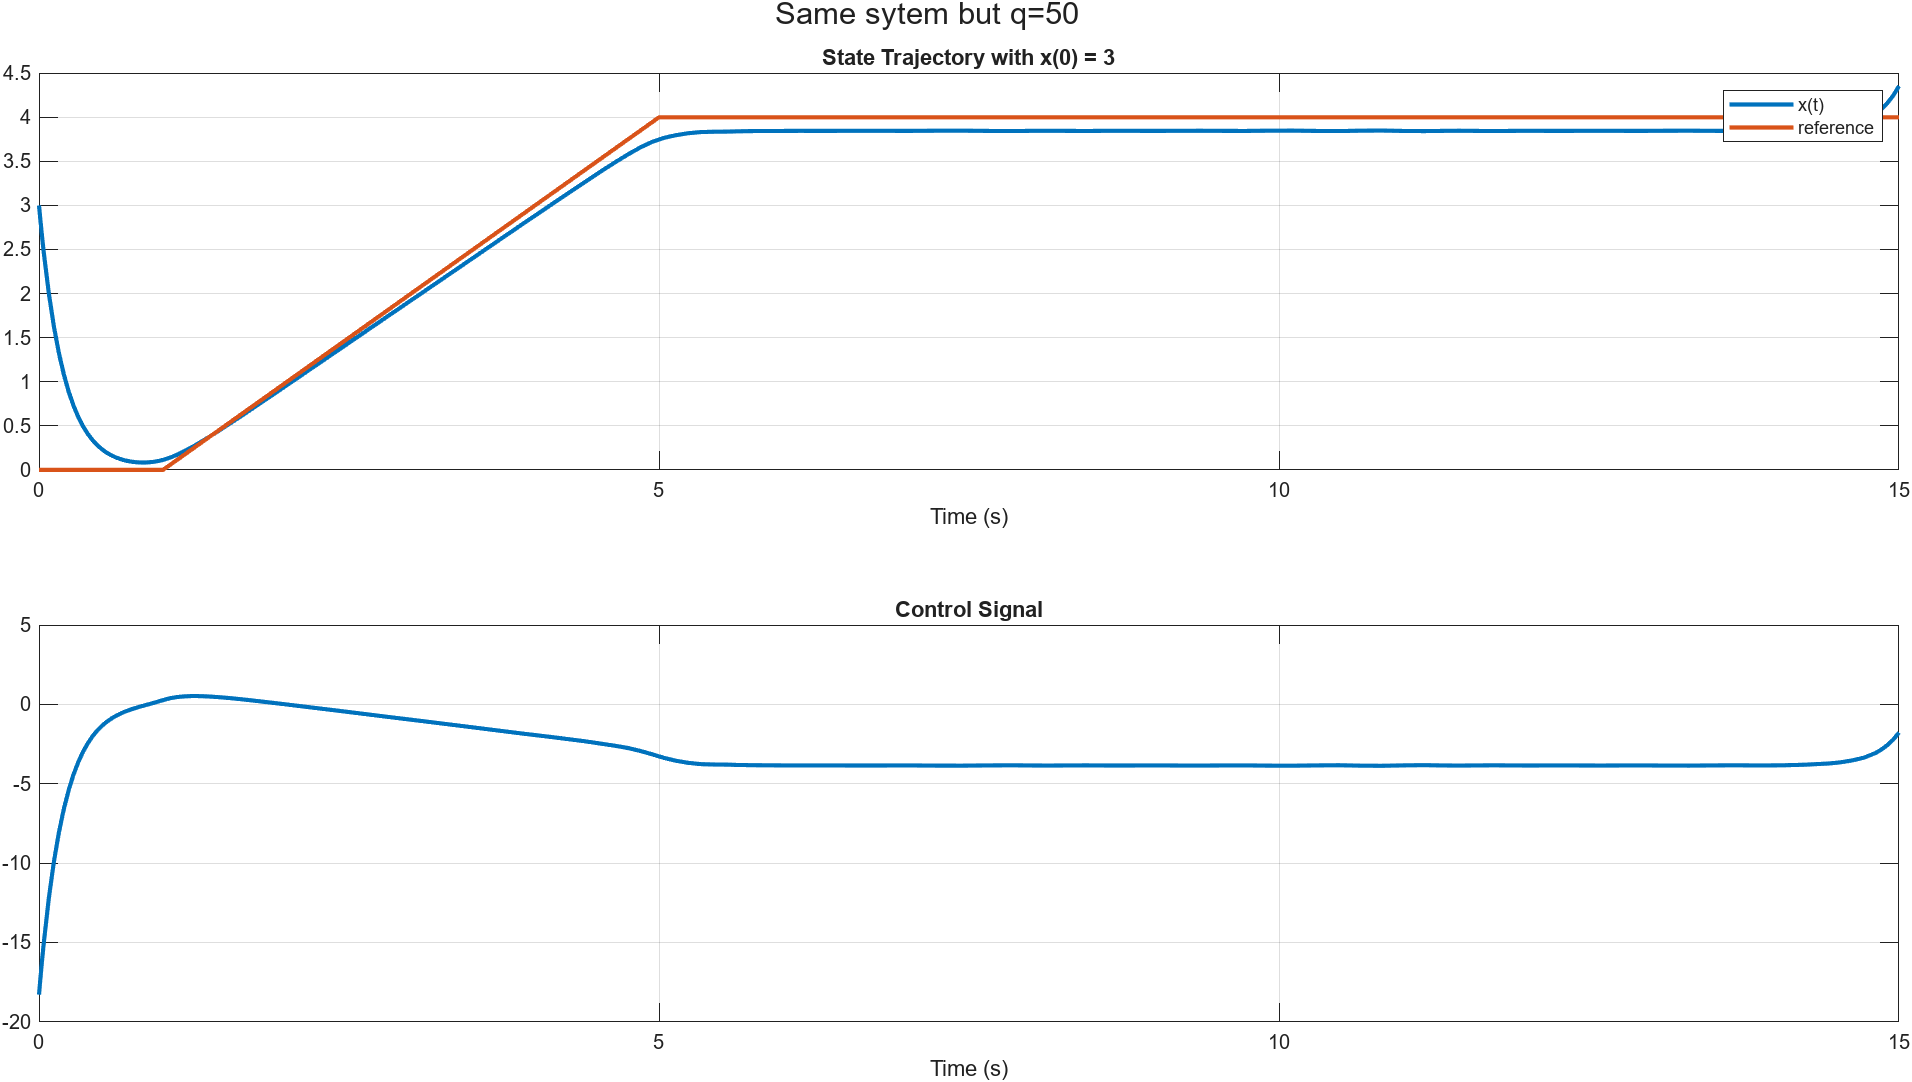
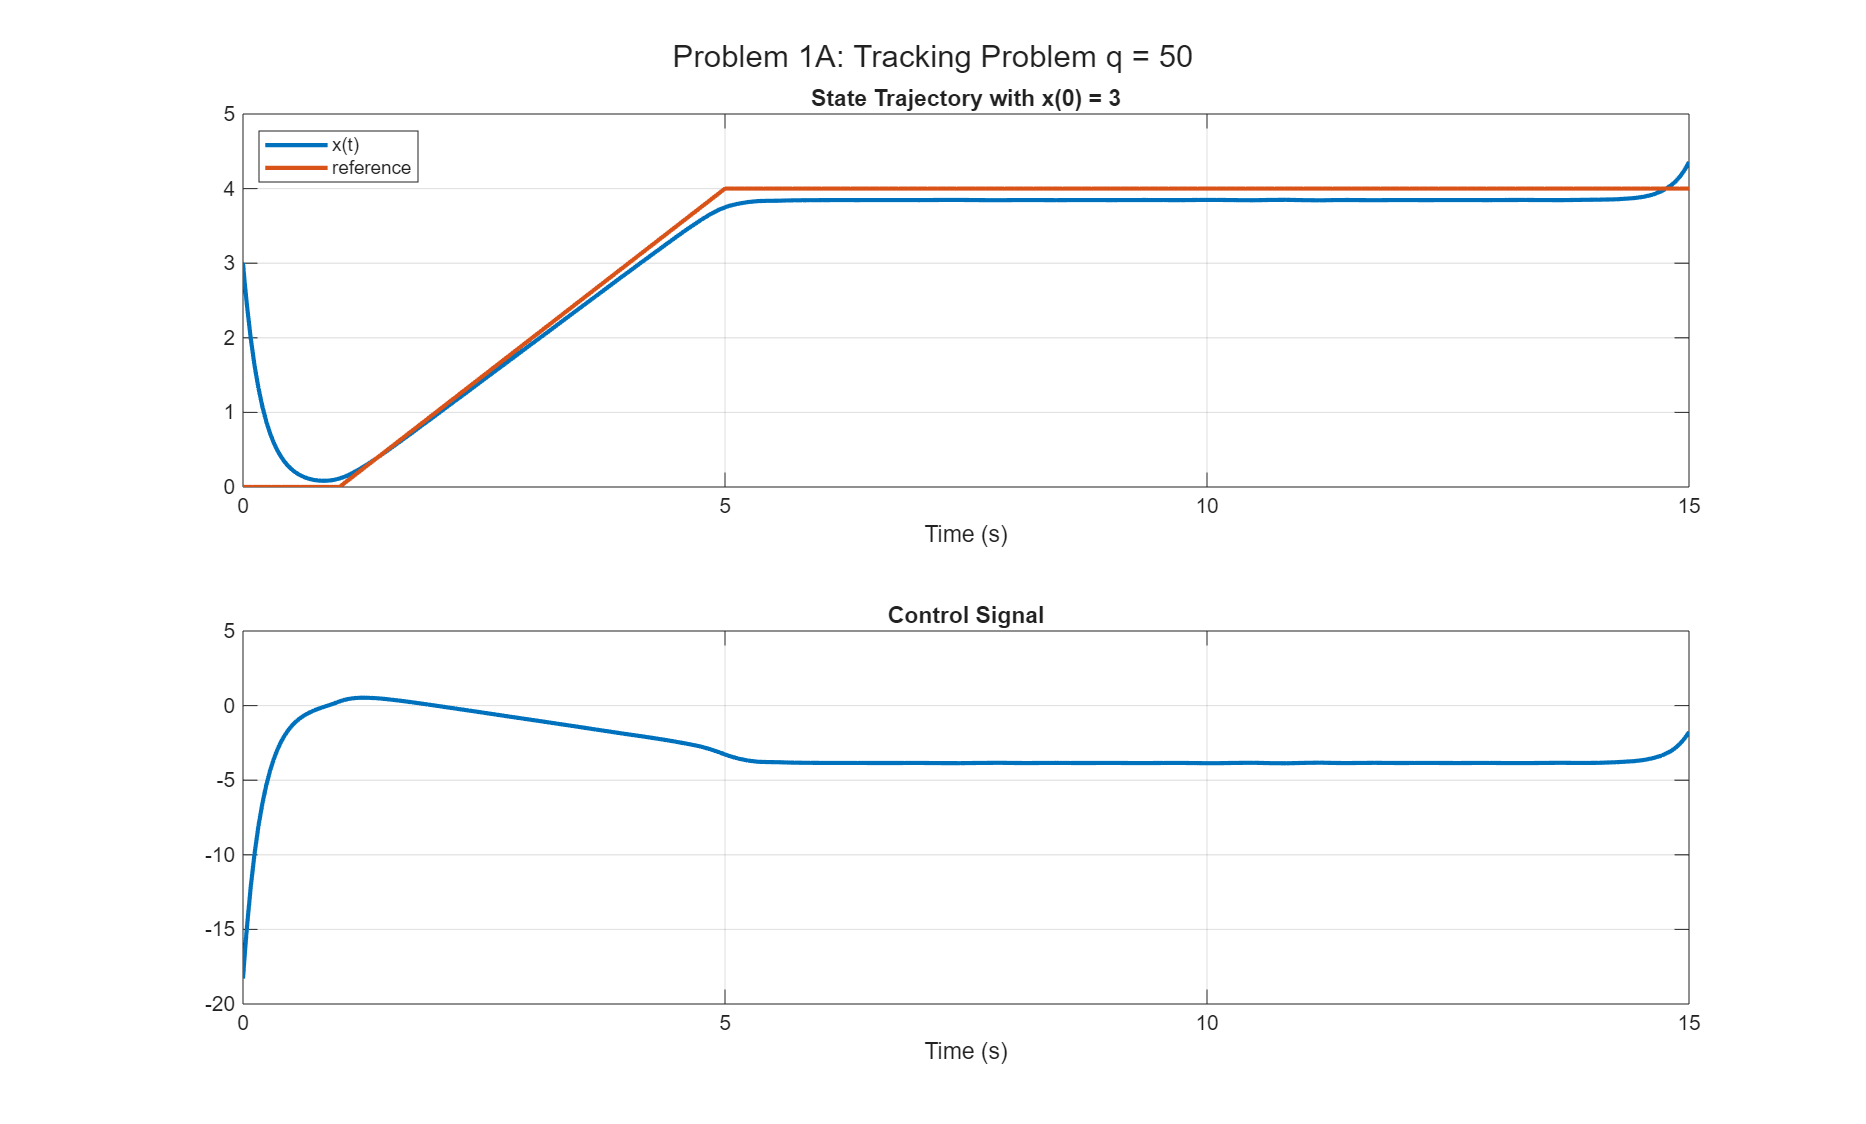
Updated the tensegplot function so it displays the different string groups correctly

diff --git a/Optimal_Controls/Exam 2/problem2.m b/Optimal_Controls/Exam 2/problem2.m
@@ -1,35 +1,40 @@
-%% Problem 2
+%% Problem 2: Continuous Function of Final-State-Fixed LQ Regulator
+% Follows Table 4.2-1 in Optimal Control by Lewis, Vrabie, Syrmos
 clear all; clc; close all;
 
+% System
 A = [0 1;2 0];
 B = [0;1];
 
+% Weights
 S_T = 10*eye(2);
 Q = [2 0; 0 1];
 R = 2;
 T = 20;
-X_0 = [3;1];
 
+% Boundary conditions
+X_0 = [3;1];
 C = [1 0];
 V_T = C';
 P_T = 1e-5; % not 0 to prevent singularities
 
 % reference
 t_ref = 0:0.1:T;
-% r_ref = t_ref; % linear reference
-r_ref = sin(t_ref); % sinusoidal reference
+
+% r_ref = t_ref; % part a: linear reference
+r_ref = sin(t_ref); % part b: sinusoidal reference
 r_T = r_ref(end);
 
+% Solving SVP backwards
 SV_T = [S_T(1,1);S_T(1,2);S_T(2,2);V_T;P_T];
 [t_SV, SV] = ode45(@(t,SV) riccati(t,SV,A,B,R,Q),[T 0],SV_T);
 
-% flip
+% flip SVP to forwards in time
 t_f = flip(t_SV);
 SV_f = flip(SV,1);
 S_vector = SV_f(:,1:3);
 V = SV_f(:,4:5);
 P = SV_f(:,6);
-
 N =  length(t_f);
 K = zeros(N,2);
 for i = 1:N
@@ -51,12 +56,31 @@ for i = 1:N
     U(i) = -(K_t-inv(R)*B'*V_t*inv(P_t)*V_t')*X(i,:)'-inv(R)*B'*V_t*inv(P_t)*r_T;
 end
 
-% plotting
-figure('Name','Problem2PartA')
-plot(t,X(:,1))
+%% plotting
+formatSpec = {'LineWidth',2};
+
+
+figure('Name','Problem2PartB')
+subplot(2,1,1)
+plot(t,X(:,1),formatSpec{:})
 hold on
-plot(t,U)
-plot(t_ref,r_ref)
+plot(t,X(:,2),formatSpec{:})
+plot(t_ref,r_ref,formatSpec{:})
+grid on
+xlabel("Time (seconds)")
+ylabel("X(t)")
+title('State Trajectory with X(0) = [3; 1]')
+legend("X_1","X_2", "reference signal",Location="northwest")
+
+subplot(2,1,2)
+plot(t,U,formatSpec{:})
+ylabel("U(t)")
+xlabel("Time (seconds)")
+title('Control Signal')
+grid on
+sgtitle("Probelm 2B: Function of final state x_1 = 20")
+
+%% System Functions
 
 function dX = plant(t,X,A,B,R,K,V,P,t_f,r_T)
     V_t = interp1(t_f,V,t)'; % transpose to get column vector
@@ -69,8 +93,6 @@ end
 function dSVP = riccati(t,SVP,A,B,R,Q)
 S = [SVP(1) SVP(2); SVP(2) SVP(3)];
 V = [SVP(4); SVP(5)];
-
-
 dS = -(A'*S+S*A'-S*B*inv(R)*B'*S+Q);
 dV = -(A-B*inv(R)*B'*S)'*V;
 dP = V'*B*inv(R)*B'*V;

diff --git a/Optimal_Controls/Exam 2/problem3.m b/Optimal_Controls/Exam 2/problem3.m
@@ -1,10 +1,11 @@
-%% Problem 3
+%% Problem 3: Discrete Function of Final-State-Fixed LQ Regulator
+% Follows Table 4.5-1 in Optimal Control by Lewis, Vrabie, Syrmos
 clear all; clc; close all;
 
 T = 0.5; % sampling time
 t_f = 10; % final time 
-N = t_f/T;
-t = T:T:t_f;
+N = t_f/T+1; % MATLAB arrays start at 1
+t = 0:T:t_f;
 
 x_0 = [3;1];
 A = [1 T; 0 1];
@@ -19,11 +20,11 @@ C =[1 0];
 c_0 = 1;
 c_1 = -1;
 c_2 = 0.02;
-r = zeros(N,1);
+r_ref = zeros(N,1);
 for k =1:N
-    r(k) = c_0+c_1*T*k+c_2*(T^2)*(k^2)/2;
+    r_ref(k) = c_0+c_1*T*k+c_2*(T^2)*(k^2)/2;
 end
-r_N = r(end);
+r_N = r_ref(end);
 
 
 % optimal affine control
@@ -35,9 +36,9 @@ Ku = zeros(N,2); % 1x2 row vector
 V = zeros(2,N); % 2x1 column vector
 V(:,N) = C';
 P = zeros(N,1);
-u = zeros(N-1,1);
-x = zeros(2,N);
-x(:,1) = x_0;
+U = zeros(N-1,1);
+X = zeros(2,N);
+X(:,1) = x_0;
 %%
 for k = N-1:-1:1
     S_future = squeeze(S(k+1,:,:));
@@ -48,13 +49,37 @@ for k = N-1:-1:1
     Ku(k,:) = inv(B'*S_future*B+R)*B';
    
     
-    u(k) = -(K(k,:)-Ku(k,:)*V(:,k+1)*inv(P(k))*V(:,k)')*x(:,k)-Ku(k,:)*V(:,k+1)*inv(P(k))*r_N;
-    x(:,k+1) = A*x(:,k)+B*u(k);
+    U(k) = -(K(k,:)-Ku(k,:)*V(:,k+1)*inv(P(k))*V(:,k)')*X(:,k)-Ku(k,:)*V(:,k+1)*inv(P(k))*r_N;
+    X(:,k+1) = A*X(:,k)+B*U(k);
 end
 %% 
-figure
-plot(t, r)
+% figure
+% plot(t, r)
+% hold on
+% plot(t,X(1,:))
+% % plot(t,X(2,:))
+% % plot(t(1:end-1),U)
+% 
+
+formatSpec = {'LineWidth',2};
+
+
+figure('Name','Problem3PartA')
+subplot(2,1,1)
+plot(t,X(1,:),formatSpec{:})
 hold on
-plot(t,x(1,:))
-plot(t,x(2,:))
-plot(t(1:end-1),u)
+plot(t,X(2,:),formatSpec{:})
+plot(t,r_ref,formatSpec{:})
+grid on
+xlabel("Time (seconds)")
+ylabel("X(t)")
+title('State Trajectory with X_0 = [3; 1]')
+legend("X_1","X_2", "reference signal",Location="southwest")
+
+subplot(2,1,2)
+plot(t(1:end-1),U,formatSpec{:})
+ylabel("U(t)")
+xlabel("Time (seconds)")
+title('Control Signal')
+grid on
+sgtitle("Probelm 3: Sampled Newton's System")

diff --git a/Optimal_Controls/Exam 2/problem1.m b/Optimal_Controls/Exam 2/problem1.m
@@ -1,6 +1,7 @@
+%% Problem 1: Scalar Continuous Linear Quadratic Tracker
+% Follows Table 4.1-1 in Optimal Control by Lewis, Vrabie, Syrmos
+% More specifically Example 4.1-1: Scalar LQ Tracker
 clear all; close all; clc
-
-%% problem 1
 
 a = 1; b=1; p=10; q=5; r=2;
 T = 15;
@@ -45,7 +46,7 @@ title('State Trajectory with x(0) = 3')
 hold on
 plot(t_ref,r_ref,formatSpec{:})
 grid on
-legend('x(t)','reference')
+legend('x(t)','reference',Location="northwest")
 
 subplot(2,1,2)
 plot(t,u,formatSpec{:})
@@ -53,7 +54,7 @@ xlabel('Time (s)')
 title('Control Signal')
 grid on
 
-sgtitle('System with a=1 b=1 p=10 q=5 R=2')
+sgtitle('Problem 1A: Tracking Problem q = 50')
 
 
 %% part b- reference = sin(t) + cos(2t)
@@ -93,7 +94,7 @@ xlabel('Time (s)')
 title('Control Signal')
 grid on
 
-sgtitle('System with a=1 b=1 p=10 q=5 R=2')
+sgtitle('Problem 1B: Sinusoidal Tracking q = 50')
 
 
 %% Helper functions
